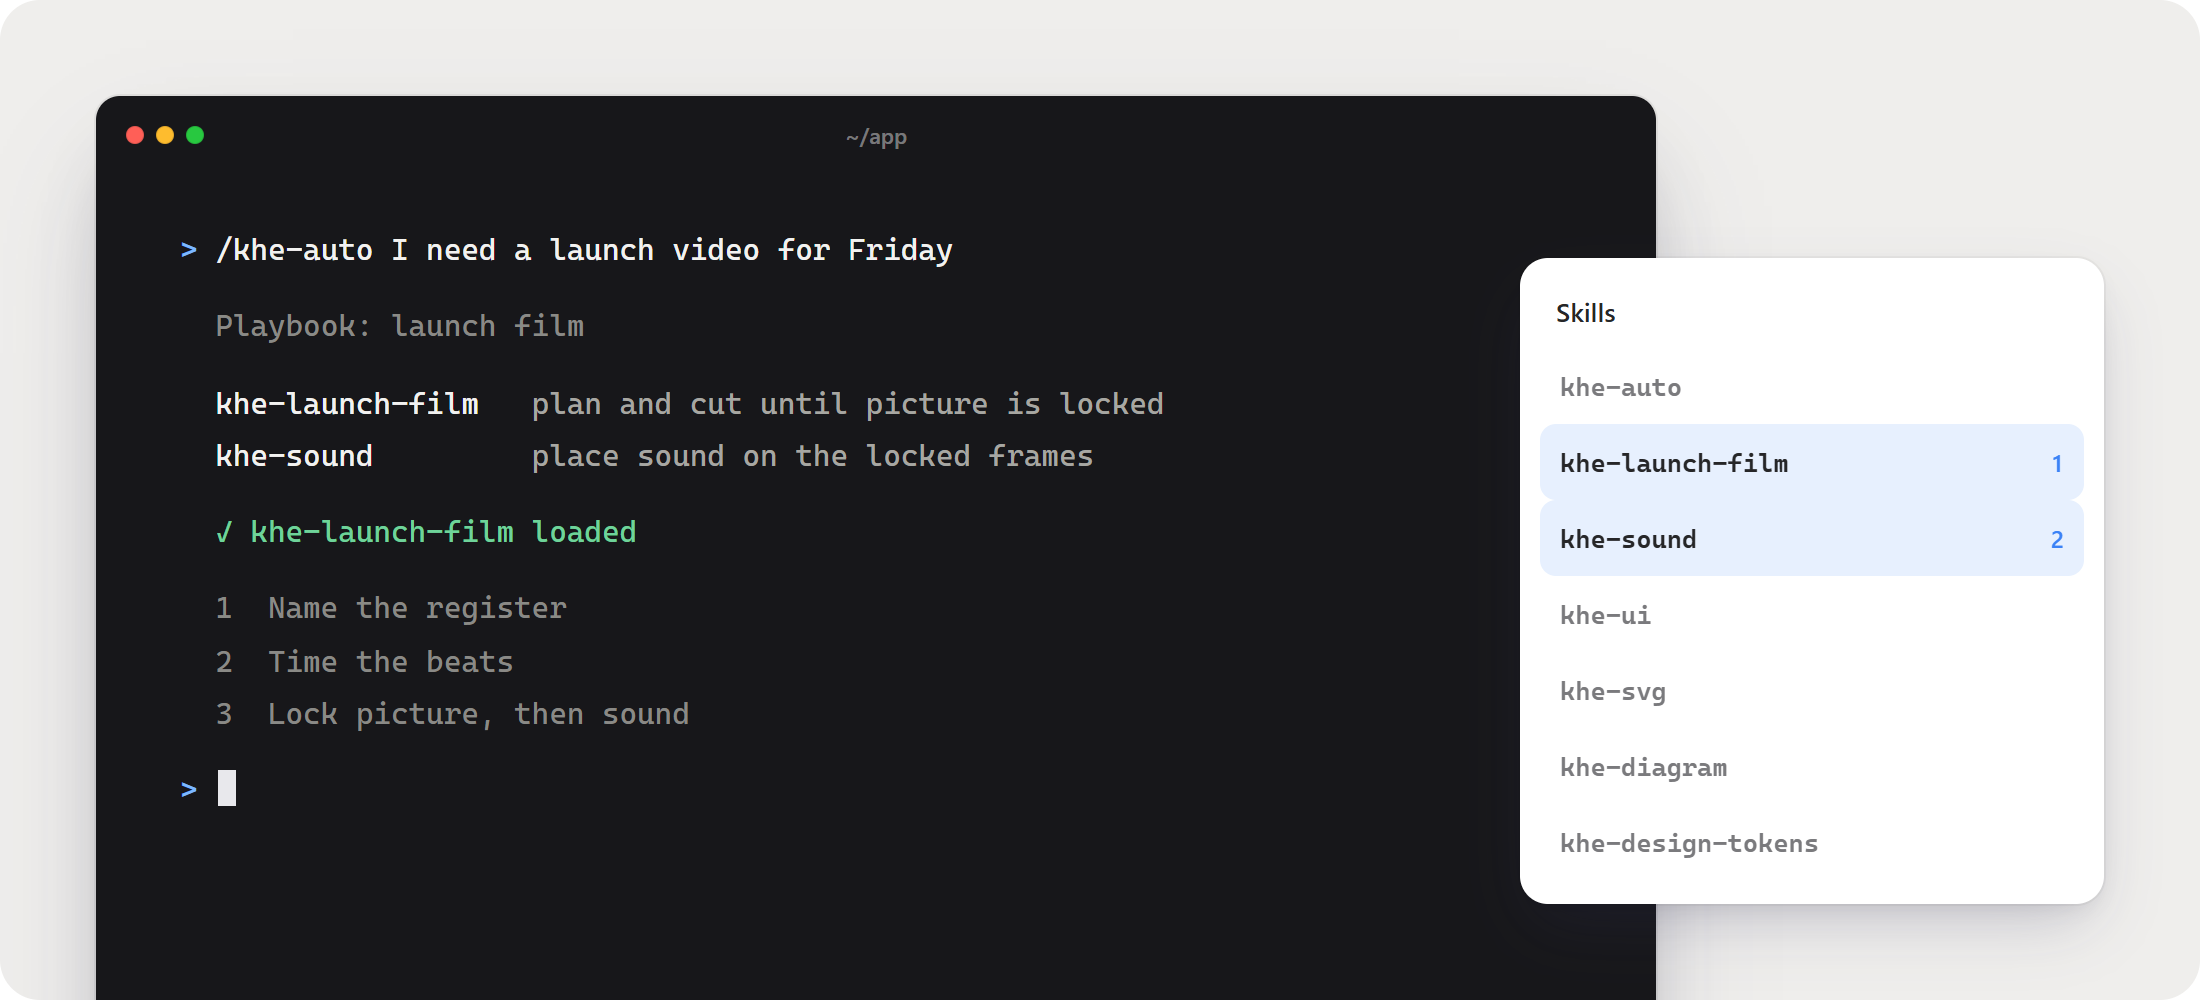
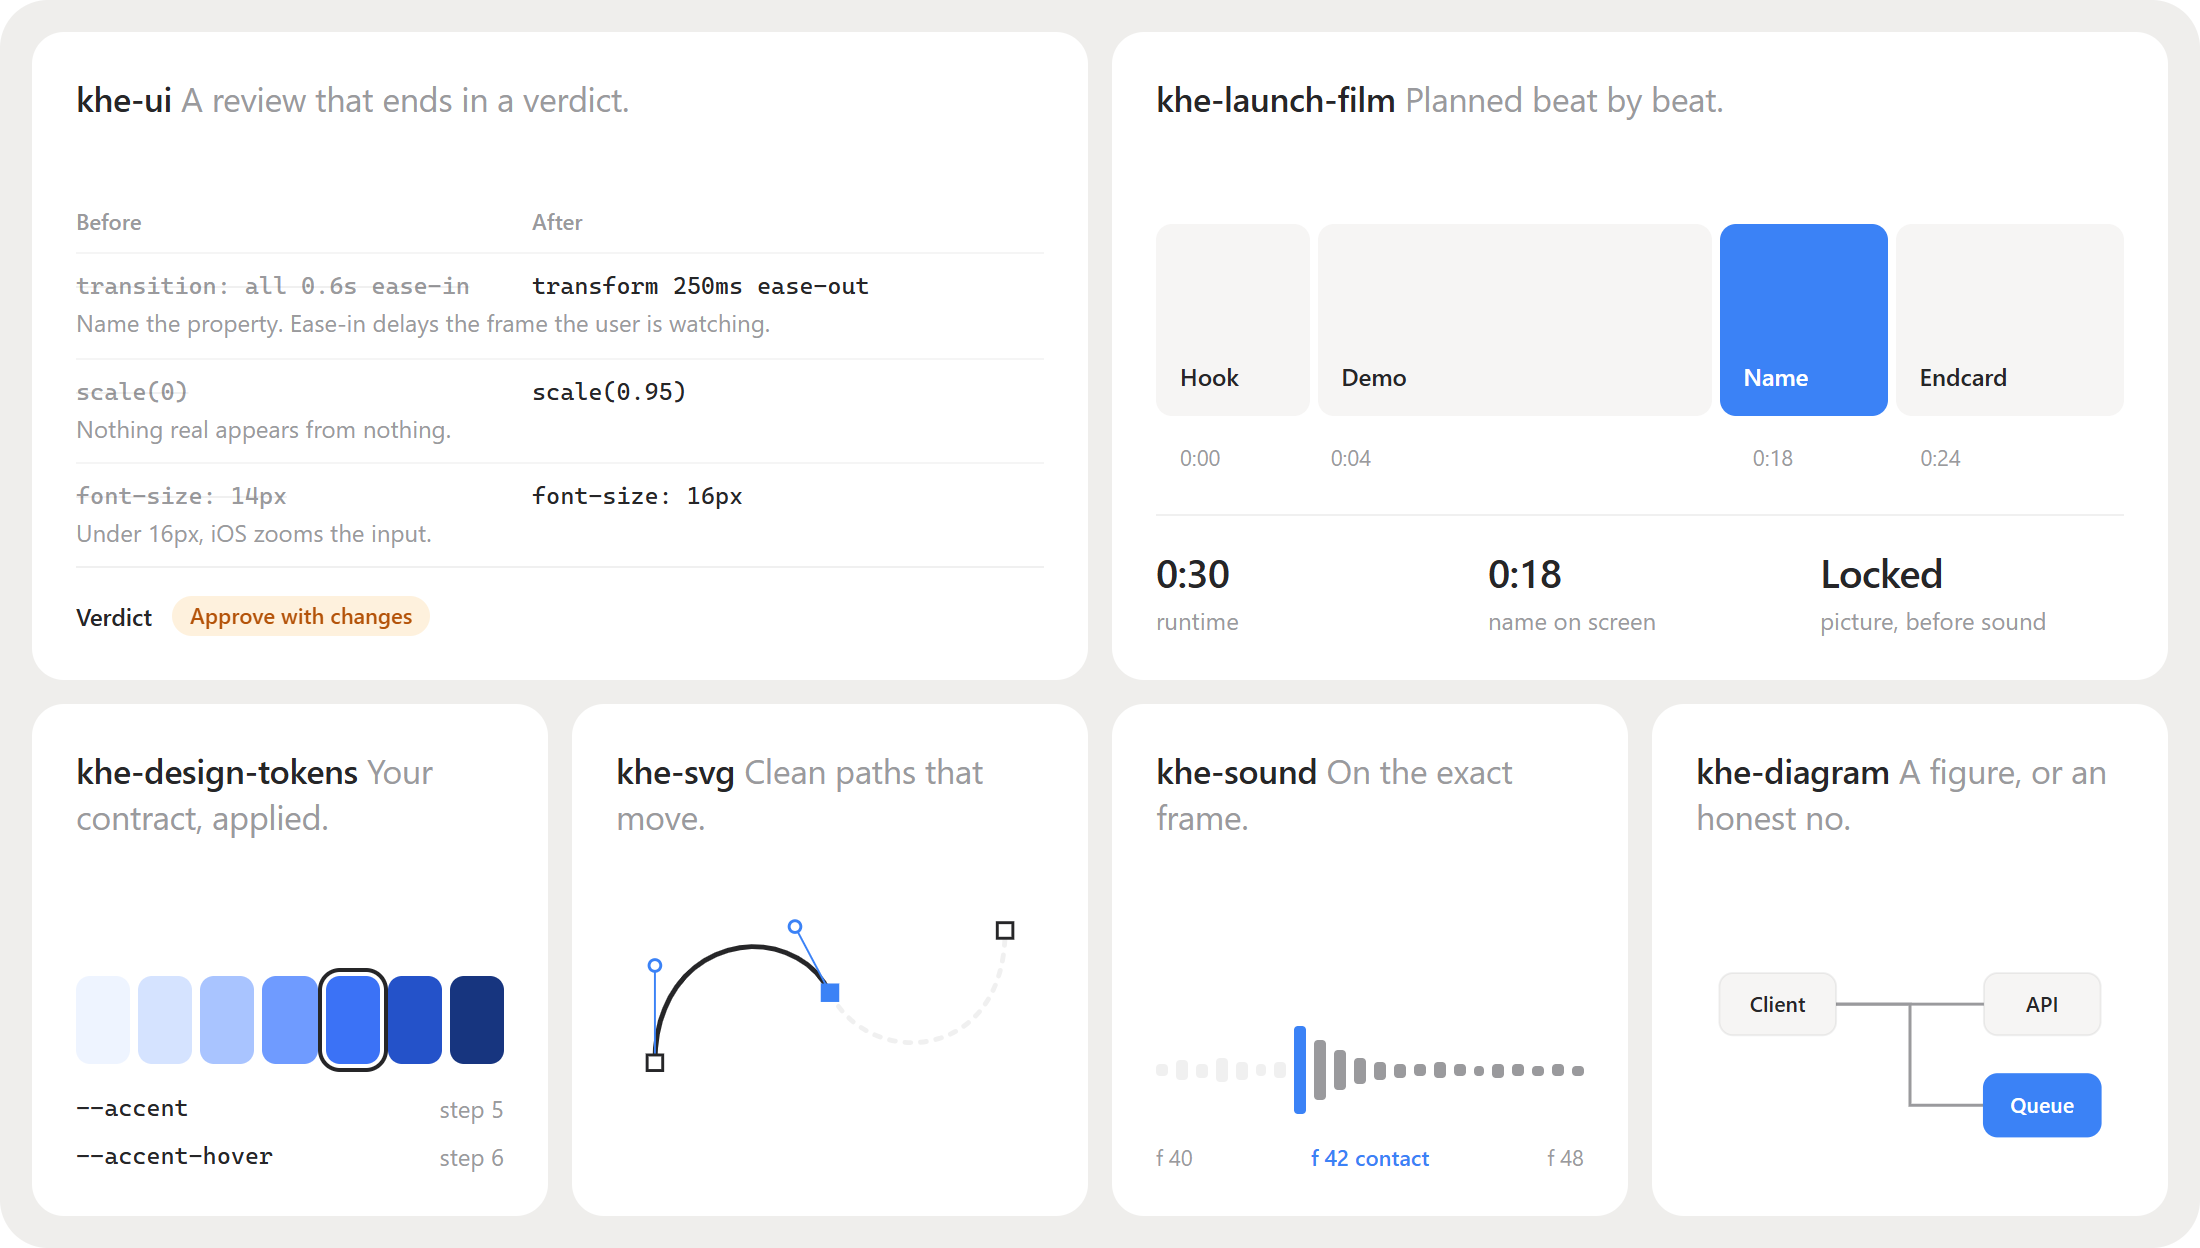
README: a showcase of what each skill produces, and the skills.sh badge

diff --git a/README.md b/README.md
@@ -1,6 +1,10 @@
 # kheSkills
 
-![A coding agent routing a request with khe-auto: it names khe-launch-film and khe-sound, then runs them in order](.github/assets/kheskills.png)
+[![skills.sh](https://skills.sh/b/HKTITAN/skills)](https://skills.sh/HKTITAN/skills)
+[![CI](https://github.com/HKTITAN/skills/actions/workflows/ci.yml/badge.svg)](https://github.com/HKTITAN/skills/actions/workflows/ci.yml)
+[![License: MIT](https://img.shields.io/badge/license-MIT-blue.svg)](LICENSE)
+
+![What the skills produce: a UI review that ends in a verdict, a launch film beat sheet, a token ramp, an SVG path mid-draw, a sound placed on its contact frame, and a three-box diagram](.github/assets/kheskills.png)
 
 I'm [Harshit Khemani](https://github.com/HKTITAN). I design and build products with coding agents: the interface, the launch film, the docs and the pictures that go in them.
 
